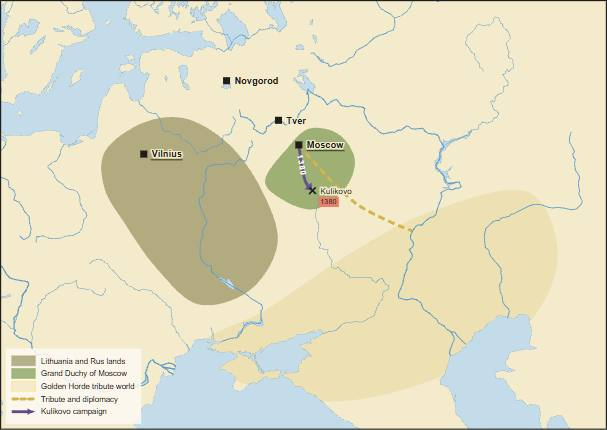
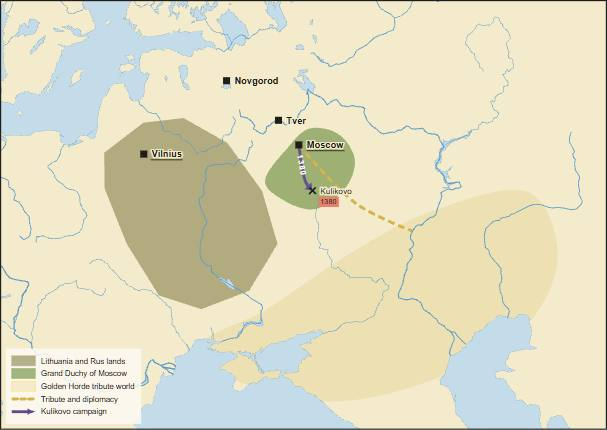
Fix rough medieval plates
Copilot-Session: 37f2f47f-8b63-49cd-b8ce-cded564ac449

diff --git a/atlas/plates/baltic-orders-kalmar.js b/atlas/plates/baltic-orders-kalmar.js
@@ -4,9 +4,9 @@
   const KAL=[16.36,56.66], MAR=[19.03,54.04], TAN=[18.60,54.36], VIS=[18.65,54.35], RIG=[24.11,56.95], REV=[24.75,59.44], NOV=[31.28,58.52], GRU=[18.75,53.49];
   window.PLATES["baltic-orders-kalmar"] = { id:"baltic-orders-kalmar", title:"Baltic unions and the Teutonic frontier", head:"Late Middle Ages / Baltic and Scandinavia", folio:"26", viewer:"medieval/1410/ch-baltic-orders-kalmar", figures:[
     {caption:"The Baltic states around the Kalmar Union, c. 1400", share:0.5, extent:[[4,52],[32,63]], projection:"conic", layers:[
-      {id:"denmark",type:"area",tier:"core",colour:DEN,legend:"Denmark",polygon:[[8.0,54.4],[10.2,55.8],[12.9,56.1],[13.1,54.8],[11.2,54.4]],smooth:false},
-      {id:"norway",type:"area",tier:"influence",colour:NOR,legend:"Norway",polygon:[[4.5,58.0],[5.5,60.2],[7.2,62.4],[10.6,63.0],[12.8,62.1],[12.0,60.0],[10.2,58.1],[8.2,57.1],[6.2,57.1]],smooth:true},
-      {id:"sweden",type:"area",tier:"core",colour:SWE,legend:"Sweden",polygon:[[11.0,55.1],[12.5,57.0],[13.8,59.4],[16.0,61.2],[19.5,62.3],[23.4,61.8],[27.0,60.2],[27.6,58.0],[25.0,57.0],[22.0,58.5],[20.0,60.4],[17.2,59.8],[15.0,57.5],[13.2,55.7]],smooth:true},
+      {id:"denmark",type:"area",clipToLand:true,tier:"core",colour:DEN,legend:"Denmark with Scania",polygon:[[7.4,54.4],[8.7,57.8],[10.9,58.0],[12.8,56.5],[15.4,56.6],[15.9,55.1],[13.4,54.4],[10.7,54.0]],smooth:false},
+      {id:"norway",type:"area",clipToLand:true,tier:"influence",colour:NOR,legend:"Norway",polygon:[[4.2,58.0],[5.1,60.3],[6.0,62.4],[8.5,63.3],[11.5,63.1],[12.7,61.5],[12.3,59.7],[10.4,58.2],[8.0,57.5],[5.8,57.4]],smooth:false},
+      {id:"sweden",type:"area",clipToLand:true,tier:"core",colour:SWE,legend:"Sweden and Finland coast",polygon:[[10.8,55.3],[12.5,58.4],[14.5,60.8],[17.8,62.4],[22.0,63.0],[26.2,62.0],[29.5,60.2],[29.1,58.2],[26.2,57.2],[23.0,58.3],[21.2,60.1],[18.5,60.9],[16.0,59.4],[14.0,56.7],[12.4,55.1]],smooth:false},
       {id:"teutonic-prussia",type:"area",tier:"core",colour:TEU,legend:"Teutonic Order and Livonia",polygon:[[14.0,53.0],[16.7,54.4],[19.2,54.7],[21.0,54.3],[20.5,53.4],[17.8,53.1]],smooth:false},
       {id:"livonia",type:"area",tier:"core",colour:TEU,polygon:[[21.0,56.0],[24.1,58.2],[28.3,58.9],[28.0,56.5],[25.2,55.6]],smooth:false},
       {id:"hansa",type:"route",style:"dotted",weight:3,colour:HAN,legend:"Hanseatic sea road",path:[[10.7,53.9],VIS,TAN,RIG,REV,NOV]},
@@ -15,8 +15,8 @@
       {id:"scania",type:"point",symbol:"port",at:[12.85,55.99],name:"Scania fairs",labelPos:"s"}
     ], legend:{position:"bottom-left",columns:1}},
     {caption:"The Teutonic Knights, Lithuania and Poland, 1226-1410", share:0.5, extent:[[13,45],[34,58.8]], projection:"conic", layers:[
-      {id:"poland",type:"area",tier:"core",colour:POL,legend:"Kingdom of Poland",polygon:[[14.7,51.2],[16.5,52.2],[19.0,52.8],[21.4,52.2],[23.4,50.7],[24.3,49.4],[22.2,48.5],[19.3,49.1],[17.0,50.0],[15.2,50.3]],smooth:true},
-      {id:"lithuania",type:"area",tier:"influence",colour:LIT,legend:"Lithuania",polygon:[[20.0,53.6],[22.0,55.6],[25.5,56.5],[29.4,55.6],[32.1,53.2],[32.3,50.0],[30.6,47.0],[28.6,45.8],[25.2,47.8],[22.2,50.5]],smooth:true},
+      {id:"poland",type:"area",clipToLand:true,tier:"core",colour:POL,legend:"Kingdom of Poland",polygon:[[14.8,51.0],[16.2,52.2],[18.4,52.6],[20.8,52.2],[22.8,51.2],[24.2,49.9],[23.6,49.1],[21.4,49.0],[19.9,49.6],[17.6,50.0],[15.5,50.3]],smooth:false},
+      {id:"lithuania",type:"area",clipToLand:true,tier:"influence",colour:LIT,legend:"Lithuania",polygon:[[20.0,54.0],[22.0,55.8],[25.5,56.5],[29.7,55.7],[32.2,53.2],[32.6,50.0],[31.1,48.0],[29.5,46.6],[27.1,47.2],[25.0,48.9],[22.3,51.0]],smooth:false},
       {id:"order",type:"area",tier:"conquest",colour:TEU,legend:"Teutonic and Livonian orders",polygon:[[15.4,53.0],[18.0,54.5],[21.2,55.0],[25.0,57.8],[28.2,58.0],[28.0,56.2],[24.0,55.0],[21.0,54.2],[18.0,53.0]],smooth:false},
       {id:"order-march",type:"arrow",colour:LINE,width:3,legend:"Order expansion",path:[[18.6,53.4],MAR,[21.1,55.0],RIG],label:"1226-1309"},
       {id:"pol-lit",type:"arrow",colour:LIT,width:3,legend:"Polish-Lithuanian union",path:[[25.3,54.7],[24.9,54.9],[21.0,52.2]],label:"1386"},

diff --git a/atlas/plates/muscovy-lithuania-steppe.js b/atlas/plates/muscovy-lithuania-steppe.js
@@ -4,7 +4,7 @@
   const MOSCOW=[37.62,55.75], NOV=[31.28,58.52], TVE=[35.91,56.86], KAZ=[49.12,55.79], SAR=[46.03,51.53], KUL=[38.7,53.65], UGRA=[35.0,54.8], KIEV=[30.52,50.45], VIL=[25.28,54.69], CRI=[34.1,44.95];
   window.PLATES["muscovy-lithuania-steppe"] = { id:"muscovy-lithuania-steppe", title:"Muscovy, Lithuania and the steppe", head:"Late Middle Ages / Rus to Russia", folio:"27", viewer:"medieval/1480/ch-muscovy-lithuania-steppe", figures:[
     {caption:"Moscow among Rus, Lithuania and the Horde, c. 1380", share:0.5, extent:[[20,43],[56,61]], projection:"conic", layers:[
-      {id:"lithuania-1380",type:"area",tier:"core",colour:LIT,legend:"Lithuania and Rus lands",polygon:[[22.2,54.4],[24.8,56.1],[28.0,56.6],[31.8,55.7],[34.8,53.6],[36.1,51.2],[34.2,49.0],[30.8,48.2],[27.6,49.6],[24.8,51.4],[22.8,52.8]],smooth:true},
+      {id:"lithuania-1380",type:"area",clipToLand:true,tier:"core",colour:LIT,legend:"Lithuania and Rus lands",polygon:[[22.2,54.4],[24.8,56.1],[28.0,56.6],[31.8,55.7],[34.8,53.6],[36.1,51.2],[34.2,49.0],[31.0,48.0],[28.0,48.4],[25.2,50.5],[22.8,52.8]],smooth:false},
       {id:"moscow-1380",type:"area",tier:"core",colour:MOS,legend:"Grand Duchy of Moscow",polygon:[[35.0,54.0],[36.7,55.6],[38.5,56.5],[40.9,56.2],[42.1,55.0],[41.2,53.7],[38.8,52.8],[36.5,53.2]],smooth:true},
       {id:"horde",type:"area",tier:"influence",colour:HORDE,legend:"Golden Horde tribute world",polygon:[[31.0,46.2],[35.5,48.2],[41.0,50.6],[47.5,52.3],[55.2,52.3],[56.0,49.2],[53.0,46.5],[47.0,44.8],[40.0,44.0],[34.0,44.8]],smooth:true},
       {id:"tribute",type:"route",style:"dashed",weight:2,colour:HORDE,legend:"Tribute and diplomacy",path:[MOSCOW,[42,53],SAR]},
@@ -14,7 +14,7 @@
     {caption:"Ivan III and the end of the Tatar yoke, 1462-1505", share:0.5, extent:[[20,43],[56,61]], projection:"conic", layers:[
       {id:"muscovy-1462",type:"area",tier:"core",colour:MOS,legend:"Muscovy by 1462",polygon:[[35,54],[38,58],[43,58],[44,54],[40,52.5],[36,53]],smooth:false,phaseLabel:"1462",phaseAt:[39.1,54.8]},
       {id:"muscovy-1505",type:"area",tier:"conquest",colour:MOS,legend:"Added under Ivan III",polygon:[[28.5,56.8],[31.3,58.7],[38,59.5],[46,58.5],[49,55.8],[45,52.2],[38,52.5],[34,54.2]],smooth:false,phaseLabel:"1505",phaseAt:[43.5,56.7]},
-      {id:"lithuania-1500",type:"area",tier:"influence",colour:LIT,legend:"Lithuania-Poland",polygon:[[22,54],[27,56.5],[33,55.2],[35,52.0],[32,49.0],[27,48.2],[23,51.0]],smooth:false},
+      {id:"lithuania-1500",type:"area",clipToLand:true,tier:"influence",colour:LIT,legend:"Lithuania-Poland",polygon:[[22,54],[26.8,56.4],[32.8,55.4],[35.2,52.0],[33.2,49.2],[30.5,48.0],[27.0,48.4],[23.0,51.0]],smooth:false},
       {id:"kazan-crimea",type:"area",tier:"influence",colour:HORDE,legend:"Successor khanates",polygon:[[44,53],[50,56],[54,55],[52,51],[46,50]],smooth:false},
       {id:"crimea",type:"area",tier:"influence",colour:OTT,legend:"Crimea and Ottoman steppe pressure",polygon:[[31,44.3],[35,45.6],[38,44.6],[36,43.3],[33,43.1]],smooth:false},
       {id:"ugra",type:"arrow",colour:LINE,width:3.2,legend:"Stand on the Ugra",path:[[48,55],UGRA,MOSCOW],label:"1480"},

diff --git a/atlas/plates/angevin-empire.js b/atlas/plates/angevin-empire.js
@@ -11,8 +11,8 @@
     ], legend:{position:"bottom-left",columns:1} },
     { caption:"The Angevin realm and its crisis", share:0.52, extent:[[-9,42],[5,57]], projection:"mercator", layers:[
       {id:"england2",type:"area",tier:"core",colour:ENG,legend:"England (not Wales)",polygon:[[-5.7,50.0],[-4.4,50.3],[-2.6,50.5],[-0.5,50.7],[1.4,51.0],[1.3,52.3],[0.4,53.3],[-1.1,54.3],[-2.1,55.0],[-2.9,55.5],[-3.3,54.9],[-2.8,54.1],[-3.0,53.1],[-2.7,52.3],[-3.3,51.9],[-4.4,51.8],[-5.2,51.2]],smooth:false},
-      {id:"angevin",type:"area",tier:"conquest",colour:ANJ,legend:"Angevin lands in France",polygon:[[-2.2,43.0],[-1.7,44.2],[-1.2,45.4],[-1.3,46.5],[-2.2,47.3],[-2.0,48.3],[-1.2,49.5],[0.2,50.2],[1.8,50.1],[3.2,49.2],[3.0,47.8],[2.5,46.5],[2.4,45.2],[1.8,44.1],[0.6,43.4],[-0.8,42.9]],smooth:true},
-      {id:"brittany",type:"area",opacity:0.5,colour:ANJ,legend:"Brittany dependent",polygon:[[-4.9,47.6],[-4.2,48.5],[-3.1,48.9],[-1.6,49.5],[-1.9,48.3],[-2.7,47.8],[-3.9,47.4]],smooth:true},
+      {id:"angevin",type:"area",clipToLand:true,tier:"conquest",colour:ANJ,legend:"Angevin lands in France",polygon:[[-1.9,49.8],[-0.4,50.2],[1.6,50.1],[2.5,49.3],[2.3,48.2],[1.4,47.5],[2.0,46.5],[2.7,45.2],[2.6,44.1],[1.2,43.2],[-0.3,42.8],[-1.3,43.1],[-1.2,44.6],[-0.7,45.4],[-0.4,46.3],[-0.7,47.2],[-1.4,48.1],[-1.2,49.0]],smooth:false},
+      {id:"brittany",type:"area",clipToLand:true,opacity:0.5,colour:ANJ,legend:"Brittany dependent",polygon:[[-4.9,47.5],[-4.1,48.5],[-3.1,48.9],[-1.6,48.9],[-1.4,48.0],[-2.4,47.4],[-3.8,47.3]],smooth:false},
       {id:"ireland",type:"area",tier:"influence",colour:IR,legend:"English foothold in Ireland",polygon:[[-8,51.5],[-6.5,54.2],[-5.5,53.0],[-5.8,51.8]],smooth:true},
       {id:"capetian",type:"area",tier:"influence",colour:FR,legend:"Capetian pressure",polygon:[[0.8,47.5],[2.3,49.7],[4.2,49.2],[4.0,47.2],[2.1,46.8]],smooth:"basis"},
       {id:"loss",type:"boundary",style:"partition",colour:LINE,width:2.6,legend:"Losses to Philip II",path:[[0.0,50.0],[0.0,48.8],[0.6,47.5],[0.3,46.5]]},

diff --git a/atlas/plates/roman-republic-constitution.js b/atlas/plates/roman-republic-constitution.js
@@ -28,9 +28,9 @@
           { id: "army", label: "Army and\nprovinces", x: 0.51, y: 0.86, w: 0.24, h: 0.10, colour: ARMY, strong: true, note: "the dangerous seam" }
         ],
         arrows: [
-          { id: "elect-praetors", from: "tribal", to: "praetors", label: "elect", via: [[0.16,0.29],[0.16,0.42]], labelAt: [0.16,0.31] },
+          { id: "elect-praetors", from: "tribal", to: "praetors", label: "elect", via: [[0.28,0.29],[0.28,0.42],[0.16,0.42]], labelAt: [0.28,0.37] },
           { id: "elect-tribunes", from: "plebeian", to: "tribunes", label: "elect", colour: TR, via: [[0.40,0.29],[0.45,0.42]], labelAt: [0.41,0.31] },
-          { id: "elect-consuls", from: "centuriate", to: "consuls", label: "elect", via: [[0.61,0.29],[0.62,0.42]], labelAt: [0.61,0.31] },
+          { id: "elect-consuls", from: "centuriate", to: "consuls", label: "elect", via: [[0.69,0.29],[0.73,0.40],[0.68,0.42]], labelAt: [0.72,0.37] },
           { id: "senate-advises", from: "senate", to: "consuls", label: "advises", colour: SEN, labelAt: [0.74,0.41] },
           { id: "veto-consuls", from: "tribunes", to: "consuls", label: "veto", colour: TR, dashed: true, end: "bar", labelAt: [0.54,0.55] },
           { id: "veto-senate", from: "tribunes", to: "senate", label: "veto", colour: TR, dashed: true, end: "bar", via: [[0.55,0.63],[0.82,0.63]], labelAt: [0.68,0.63] },

diff --git a/app/scenes/medieval.js b/app/scenes/medieval.js
@@ -117,7 +117,7 @@ window.SCENES = window.SCENES || {};
     ], terms:[{t:"Capetian",wiki:"House of Capet"},{t:"Bouvines",wiki:"Battle of Bouvines"},{t:"Albigensian Crusade",wiki:"Albigensian Crusade"},{t:"Louis IX",wiki:"Louis IX of France"}]},
     "ch-angevin-england": { caption:"Angevin England is an island kingdom joined to French fiefs until John loses most of them.", bbox:[[-9,42],[5,57]], layers:[
       {type:"area",name:"England",tier:"core",colour:ENG,around:[[-3,52],[-1,54],[0,51]],labelAt:[-1.5,52.5]},
-      {type:"area",name:"Angevin lands",tier:"conquest",colour:NORM,around:[[1.1,49.4],[-0.55,47.47],[0.34,46.58],[-0.58,44.84]],labelAt:[0,47]},
+      {type:"area",name:"Angevin lands",tier:"conquest",colour:NORM,around:[[-1.2,49.5],[1.2,49.5],[2.5,47.5],[2.4,45.0],[0.8,43.4],[-0.8,43.2],[-1.2,45.0],[-0.6,47.2]],labelAt:[0,46.8]},
       {type:"arrow",name:"Norman invasion",colour:NORM,path:[[1.1,49.44],[0.49,50.91]],labelAt:[0.9,50.2]},
       {type:"boundary",style:"partition",colour:"#5f4b8b",name:"Losses to France",from:"1204",path:[[0,50],[0,48.5],[0.4,47]]},
       {type:"point",symbol:"battle",name:"Hastings",year:"1066",at:[0.49,50.91]}, {type:"point",symbol:"treaty",name:"Runnymede",year:"1215",at:[-0.57,51.44]}, {type:"point",symbol:"battle",name:"Bouvines",year:"1214",at:[2.34,50.58]}
